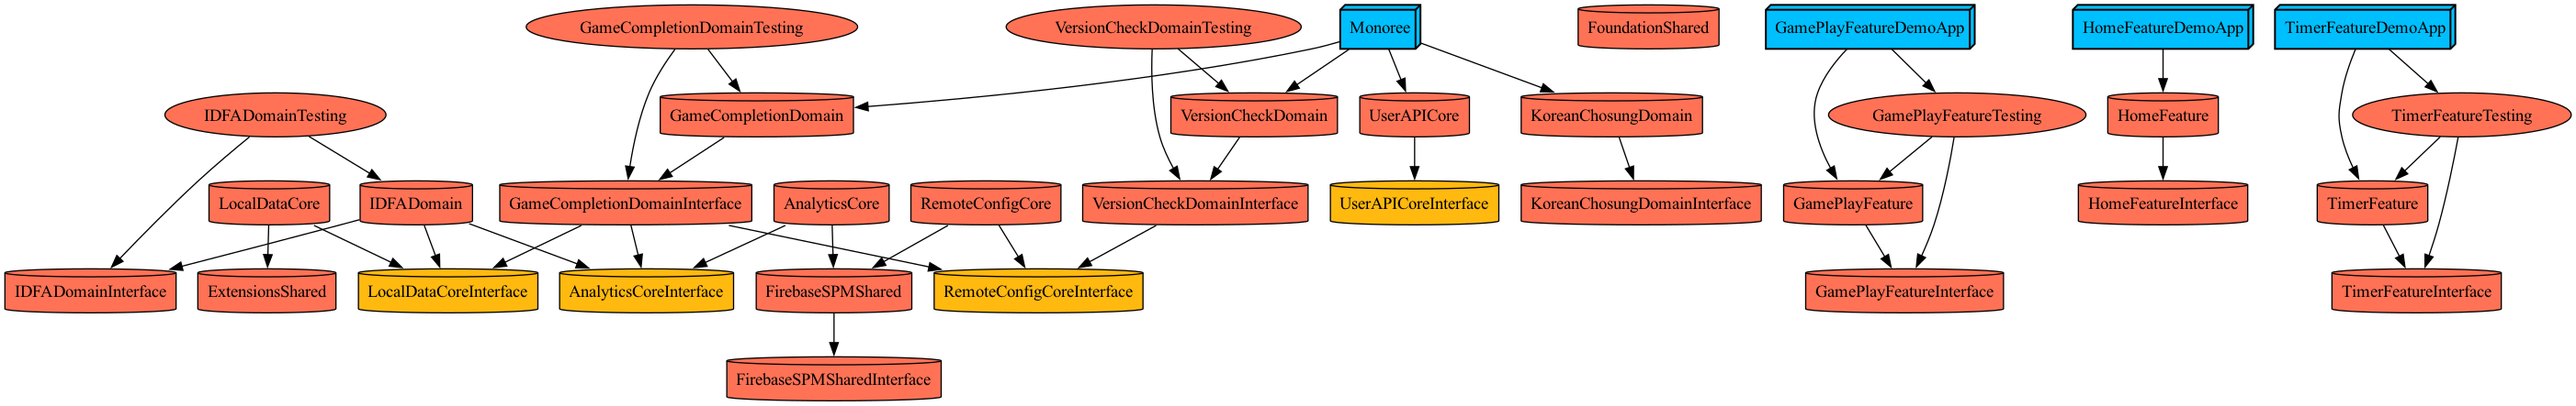
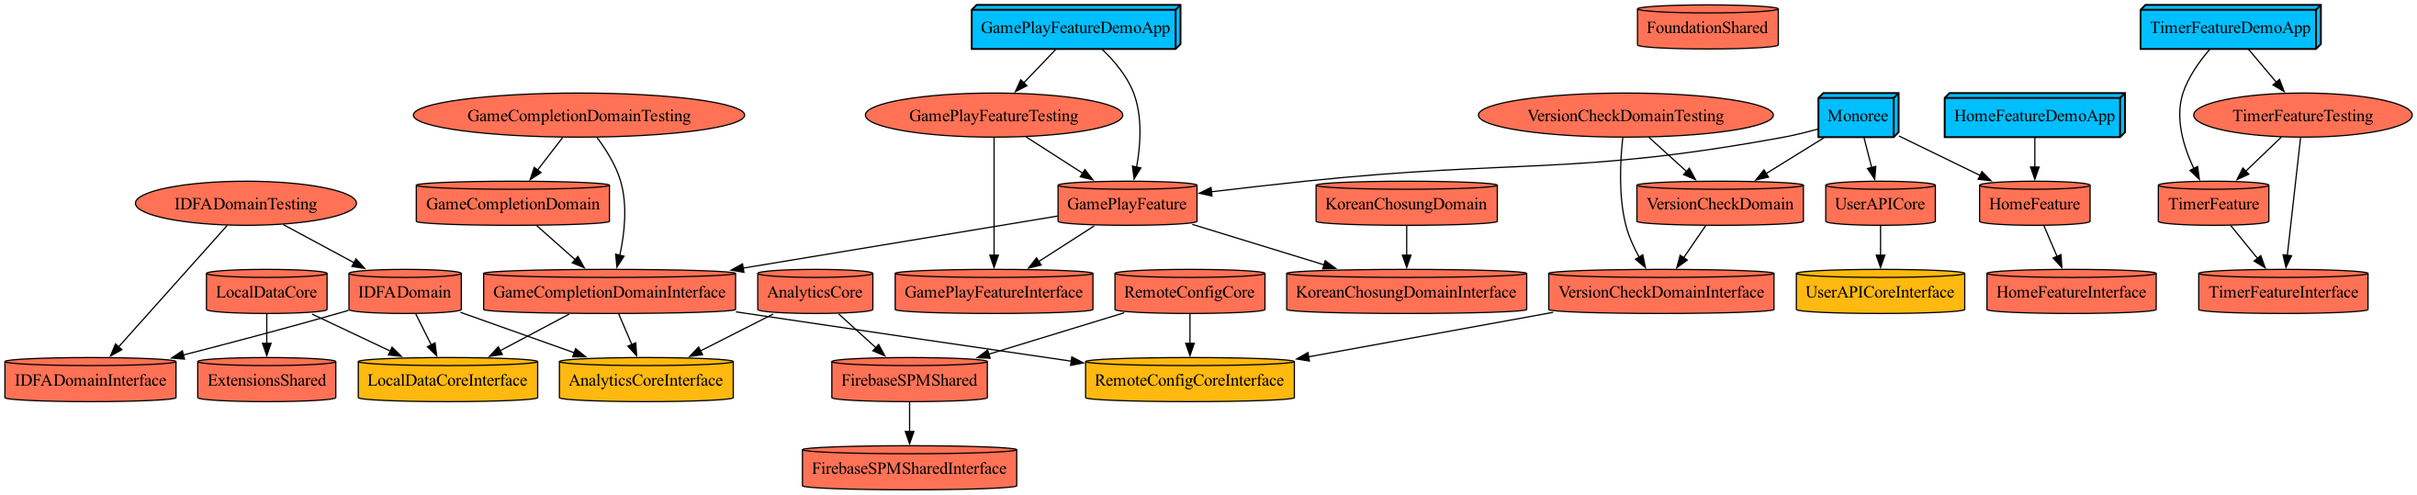
[#64] 의존성 흐름 개선

diff --git a/Projects/Application/Monoree/Project.swift b/Projects/Application/Monoree/Project.swift
@@ -36,10 +36,10 @@ let project = Project(
                 // Core
                 .core(target: .UserAPICore, type: .implementation),
                 // Domain
-                .domain(target: .GameCompletionDomain, type: .implementation),
-                .domain(target: .KoreanChosungDomain, type: .implementation),
                 .domain(target: .VersionCheckDomain, type: .implementation),
                 // Feature
+                .feature(target: .HomeFeature, type: .implementation),
+                .feature(target: .GamePlayFeature, type: .implementation),
             ]
         ),
         .target(

diff --git a/Projects/Feature/GamePlayFeature/Project.swift b/Projects/Feature/GamePlayFeature/Project.swift
@@ -14,6 +14,8 @@ let project = Project.module(
             dependencies: [
                 .SPM.ComposableArchitecture,
                 .feature(target: .GamePlayFeature, type: .interface),
+                .domain(target: .GameCompletionDomain, type: .interface),
+                .domain(target: .KoreanChosungDomain, type: .interface),
             ]
         ),
         .testing(
